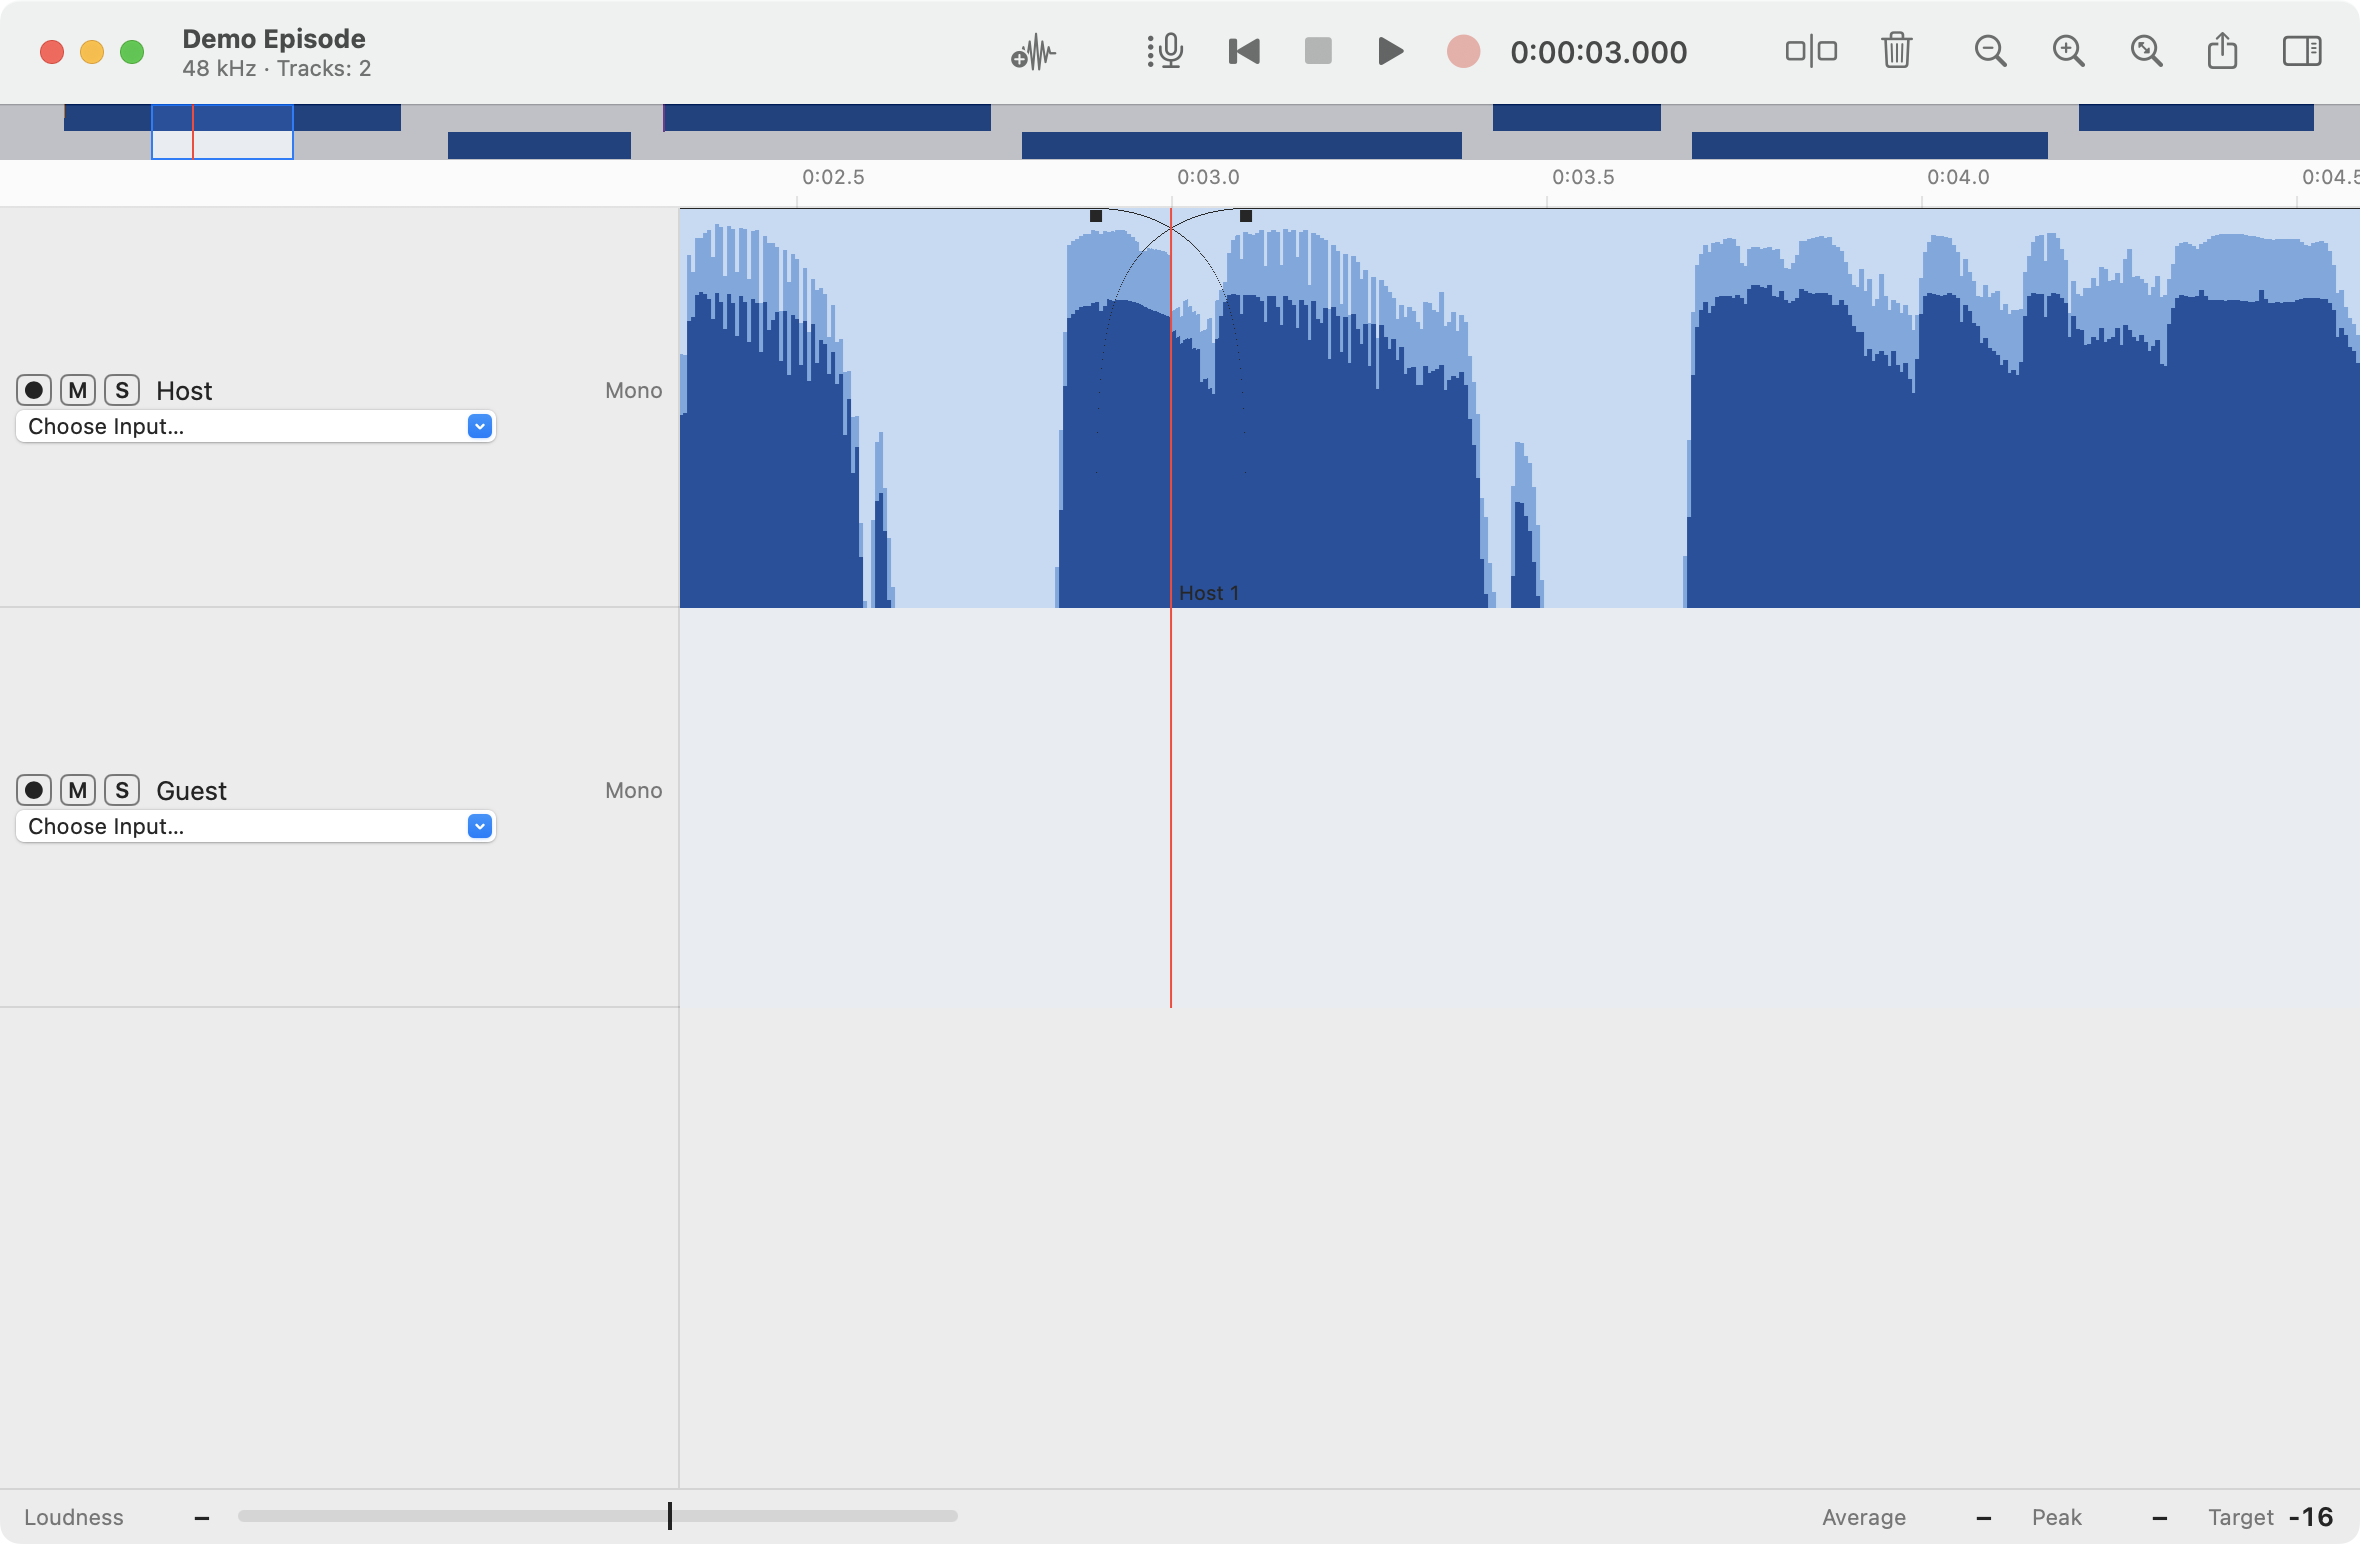
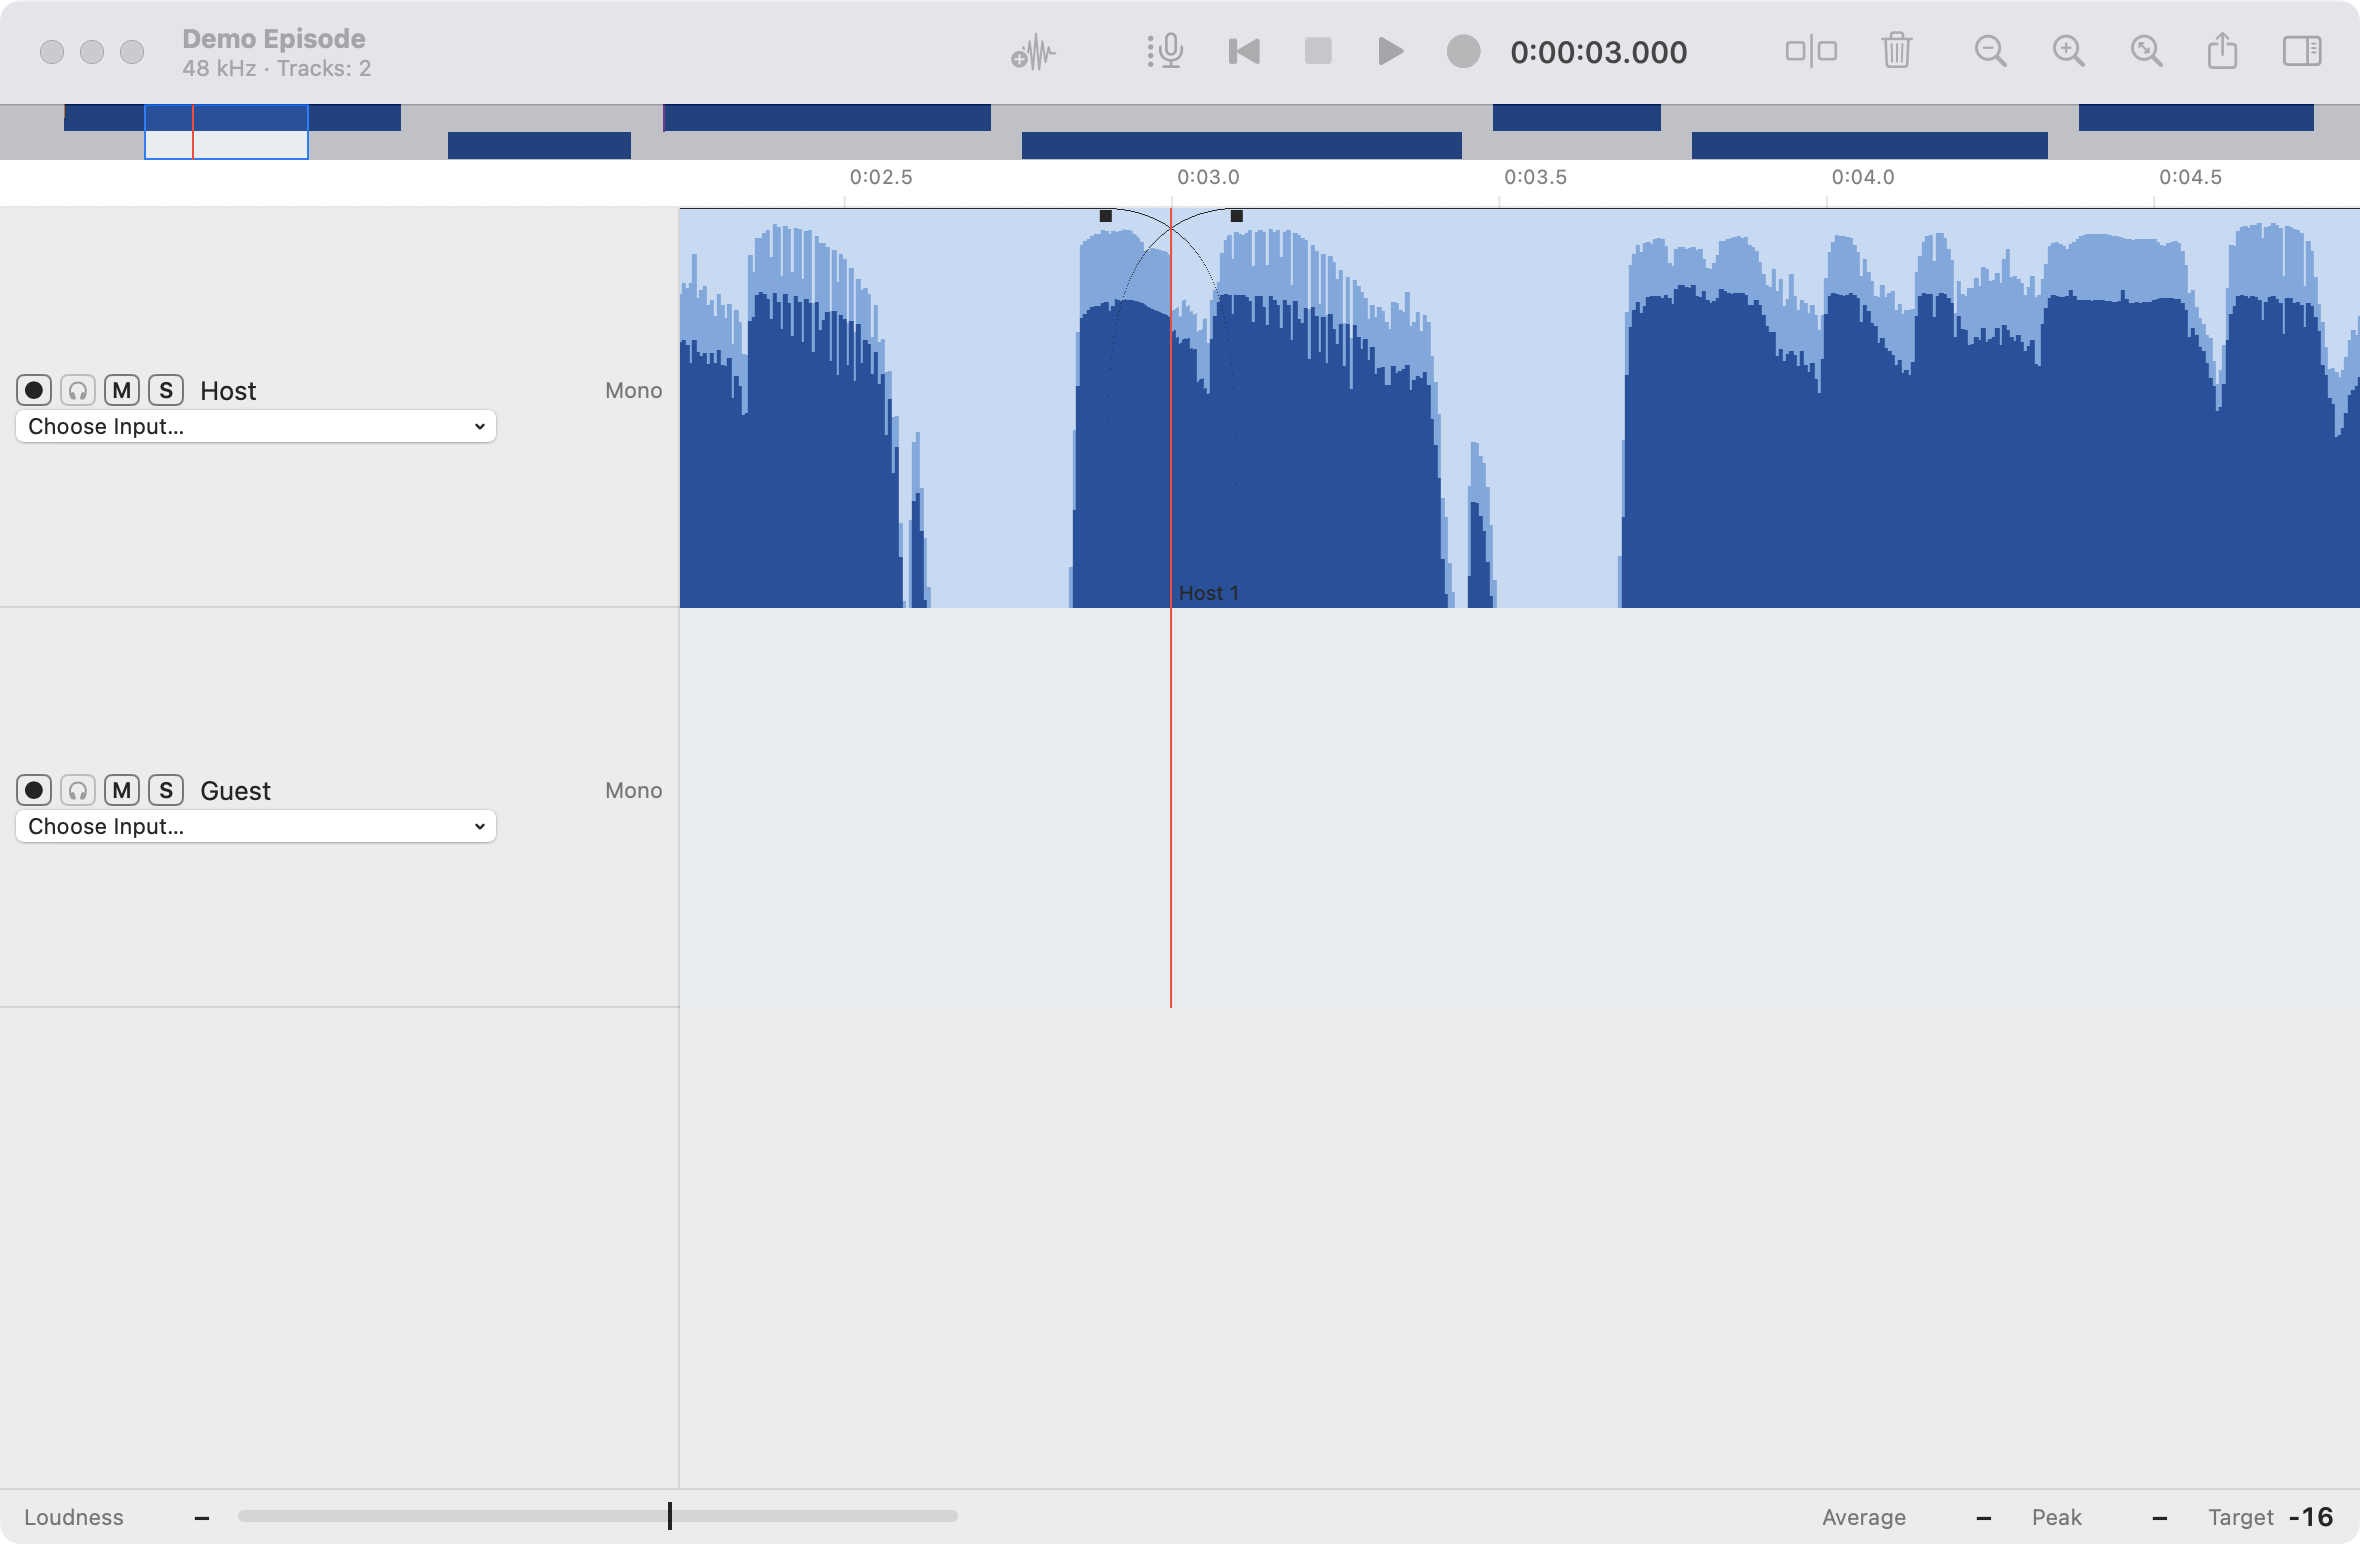
docs: show the Monitor button in the README and the screenshots
The README names the headphones button and the key of Monitor Track.
The guide images show the header with the new button, dimmed on the
demo tracks, which have no input.

diff --git a/README.md b/README.md
@@ -15,7 +15,7 @@ Dirigible is a podcast recorder and editor for macOS. It records several microph
 
 - Record several input devices at the same time, one mono or stereo track for each input.
 - Record the sound of another app, for example a call, on its own track (macOS 14.2 or later).
-- Hear a microphone in your headphones while you record, with **Track > Monitor Track**.
+- Hear a microphone in your headphones while you record: click the headphones button in the track header, or choose **Track > Monitor Track** (Control-Command-M).
 - Keep the recorded audio after a crash, an unplug, or a full disk.
 - Go back to an earlier state of the session with **File > Revert To**. Dirigible keeps backups of the session, and Undo reverses a revert.
 - Import WAV, AIFF, FLAC, MP3, and M4A files into a track, by the menu or a drag from Finder. Dirigible copies each file into the session at its sample rate and levels it.
